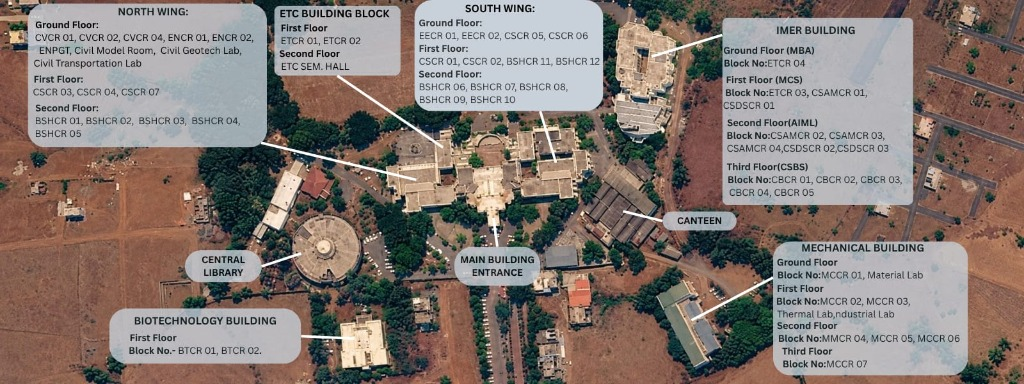
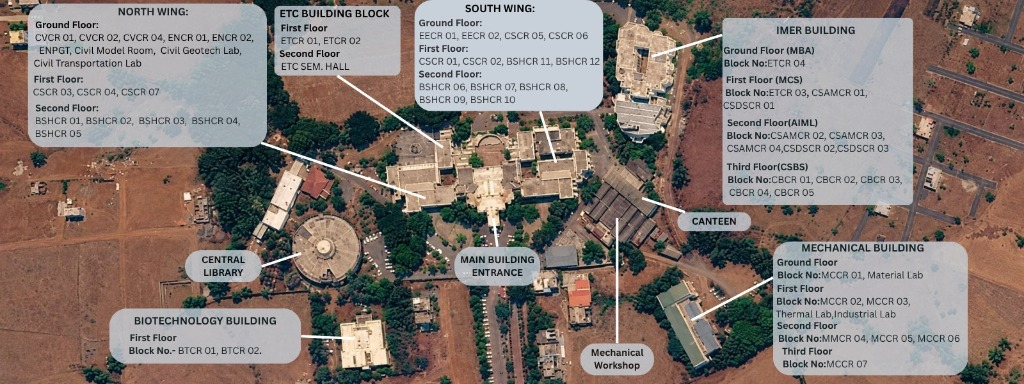
Replace aerial campus map with updated high-resolution layout and synchronize classroom block allocations

Changed region(s): [[0.5625, 0.5, 0.75, 1.0], [0.25, 0.375, 0.4062, 0.5], [0.75, 0.8125, 0.875, 0.8438]]

diff --git a/index.html b/index.html
@@ -9,7 +9,7 @@
 <link rel="preconnect" href="https://fonts.googleapis.com">
 <link rel="preconnect" href="https://fonts.gstatic.com" crossorigin>
 <link href="https://fonts.googleapis.com/css2?family=Fraunces:opsz,wght@9..144,400;9..144,500;9..144,600&family=Inter:wght@400;500;600;700&display=swap" rel="stylesheet">
-<link rel="stylesheet" href="style.css?v=19.0">
+<link rel="stylesheet" href="style.css?v=20.0">
 </head>
 <body>
 
@@ -242,13 +242,13 @@
         <button class="modal-close-btn" id="mapModalCloseBtn" aria-label="Close dialog">&times;</button>
       </div>
       <div class="modal-body map-modal-body">
-        <img src="campus_map.jpg" alt="KITCOEK Campus Aerial Map" class="campus-map-img" id="campusMapImg">
+        <img src="campus_map.jpg?v=20.0" alt="KITCOEK Campus Aerial Map" class="campus-map-img" id="campusMapImg">
       </div>
       <div class="modal-footer">
         <div class="map-legend-notes">
           <span>Aerial Layout showing North Wing, South Wing, IMER, Mechanical, Library, Biotechnology &amp; Canteen.</span>
         </div>
-        <a href="campus_map.jpg" target="_blank" download="KITCOEK_Campus_Map.jpg" class="btn-report">
+        <a href="campus_map.jpg?v=20.0" target="_blank" download="KITCOEK_Campus_Map.jpg" class="btn-report">
           ⬇ Open / Download High-Res Map
         </a>
       </div>
@@ -257,6 +257,6 @@
 
 </div>
 
-<script src="script.js?v=19.0"></script>
+<script src="script.js?v=20.0"></script>
 </body>
 </html>

diff --git a/script.js b/script.js
@@ -732,7 +732,7 @@ async function sendMessage(text){
           ${loc.landmark ? `<p class="nav-box-landmark"><em>Landmark: ${escapeHtml(loc.landmark)}</em></p>` : ''}
           ${loc.room_number ? `<p class="nav-box-rooms"><strong>Block / Rooms:</strong> ${escapeHtml(loc.room_number)}</p>` : ''}
           <div class="map-thumbnail-container open-map-modal-btn" title="Click to open Aerial Campus Map">
-            <img src="campus_map.jpg" alt="Aerial Campus Map Preview">
+            <img src="campus_map.jpg?v=20.0" alt="Aerial Campus Map Preview">
             <div class="map-thumbnail-overlay">
               <span>🗺 Official Aerial Campus Map (Tap to view)</span>
               <span>🔍 Zoom</span>
@@ -743,7 +743,7 @@ async function sendMessage(text){
               <svg width="13" height="13" viewBox="0 0 24 24" fill="none" stroke="currentColor" stroke-width="2"><polygon points="1 6 1 22 8 18 16 22 23 18 23 2 16 6 8 2 1 6"/><line x1="8" y1="2" x2="8" y2="18"/><line x1="16" y1="6" x2="16" y2="22"/></svg>
               View Aerial Map
             </button>
-            <a href="campus_map.jpg" target="_blank" class="map-link-btn map-link-btn-secondary">
+            <a href="campus_map.jpg?v=20.0" target="_blank" class="map-link-btn map-link-btn-secondary">
               ↗ Open in Tab
             </a>
           </div>
